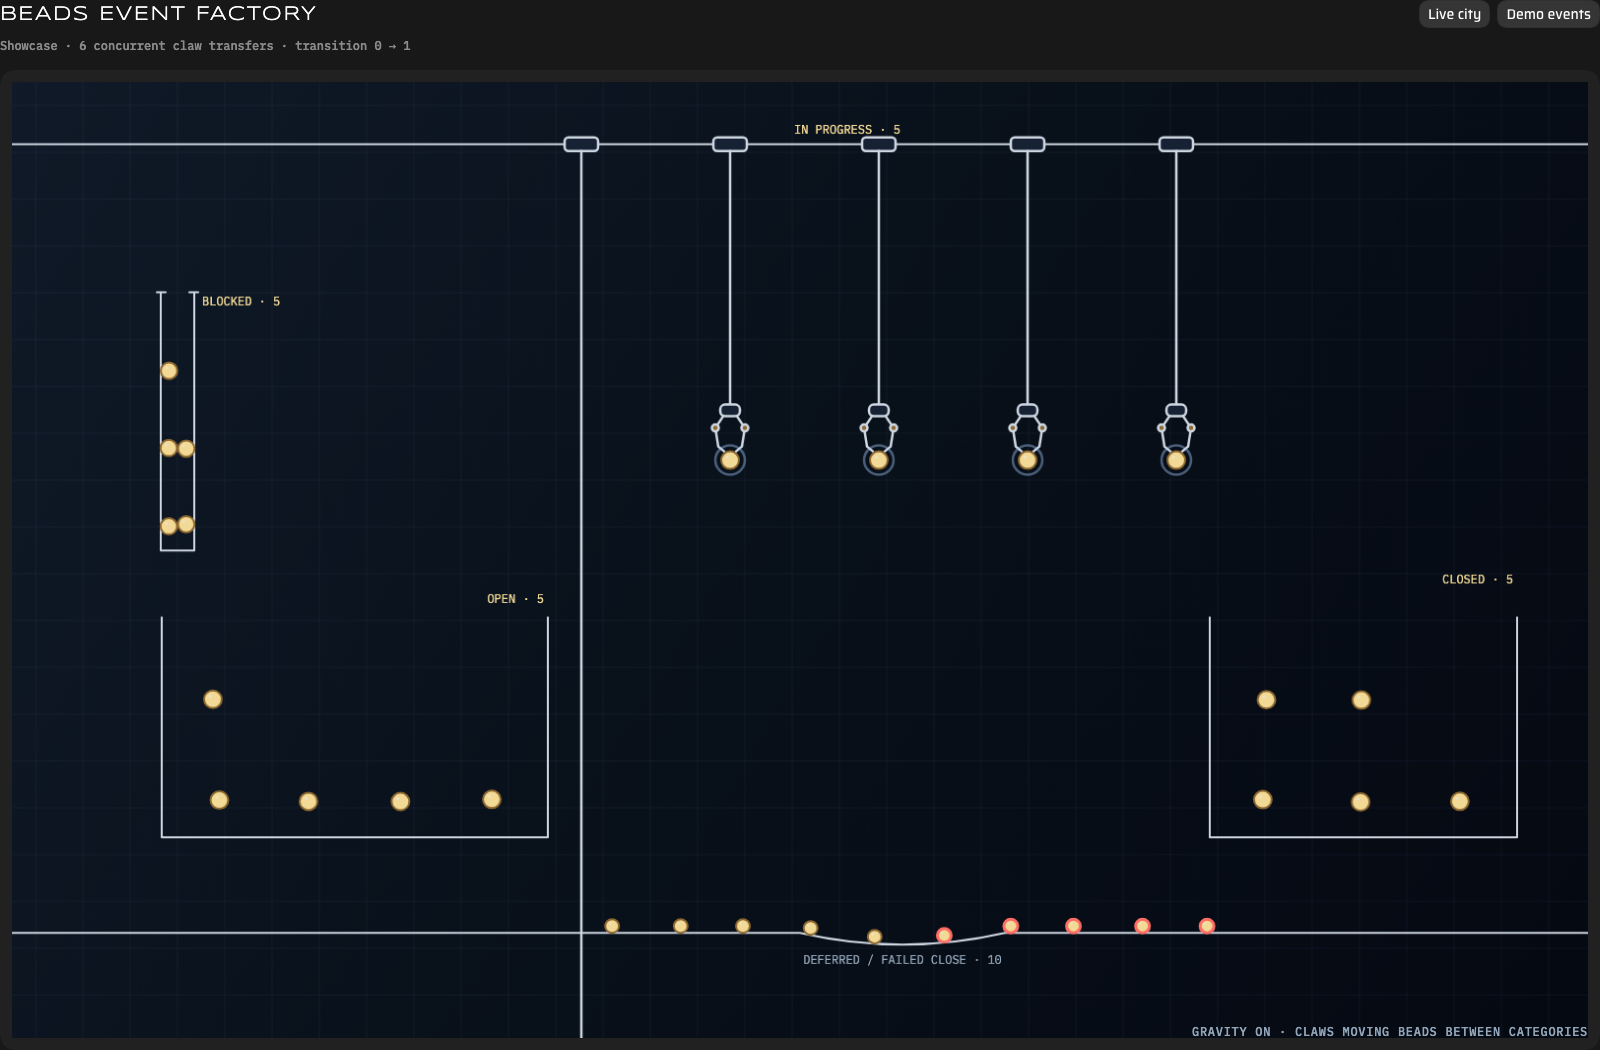
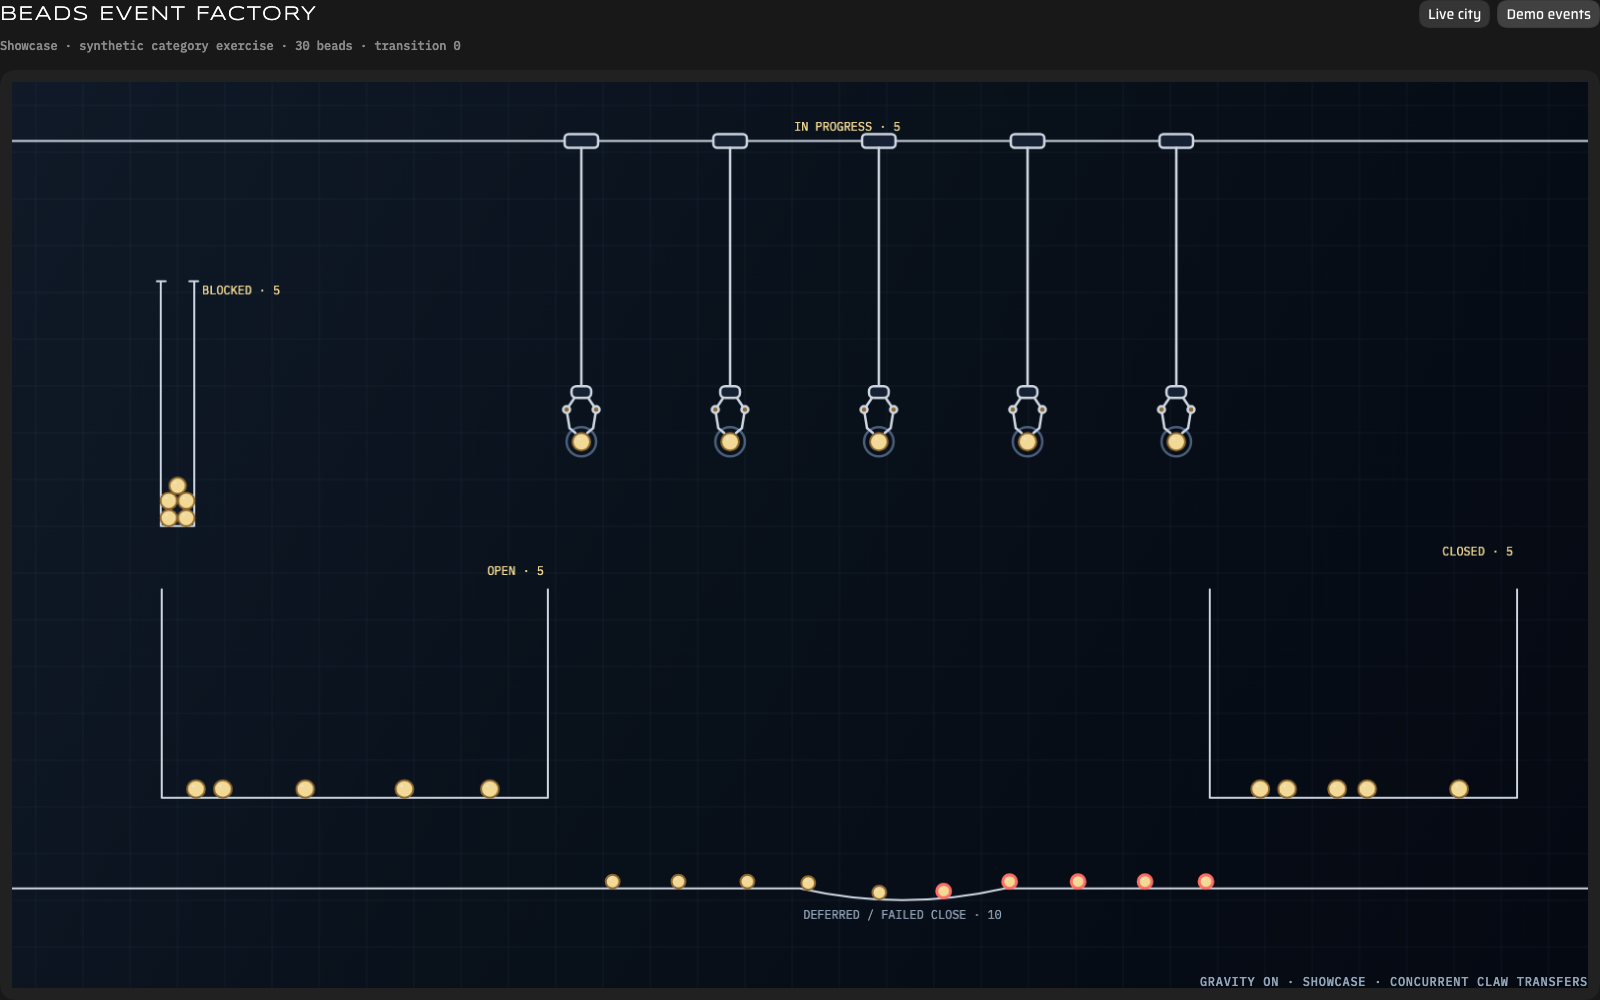
docs: replace screenshot with settled showcase frame

diff --git a/README.md b/README.md
@@ -2,9 +2,9 @@
 
 Wesley Davidson's Beads Event Factory visualizer, extracted from the Gas City blog demo and extended into a live, read-only Beads viewer.
 
-![Beads Event Factory showing blocked, open, in-progress, closed, and deferred or failed-close beads, with mechanical claws moving beads between categories.](docs/images/beads-event-factory.png)
+![Beads Event Factory showing blocked, open, in-progress, closed, and deferred or failed-close beads, with in-progress beads held by mechanical claws.](docs/images/beads-event-factory.png)
 
-The screenshot shows the synthetic Showcase mode. Run the viewer and open `http://127.0.0.1:4173/?showcase=1` to try it.
+The screenshot shows a settled frame from the synthetic Showcase mode. Run the viewer and open `http://127.0.0.1:4173/?showcase=1` to try it.
 
 The canvas, factory machinery, bins, claws, physics, visual design, and twelve-event journal playback are the original visualizer. The standalone viewer adds live city data, filters, hover summaries, and click details without replacing that design.
 
